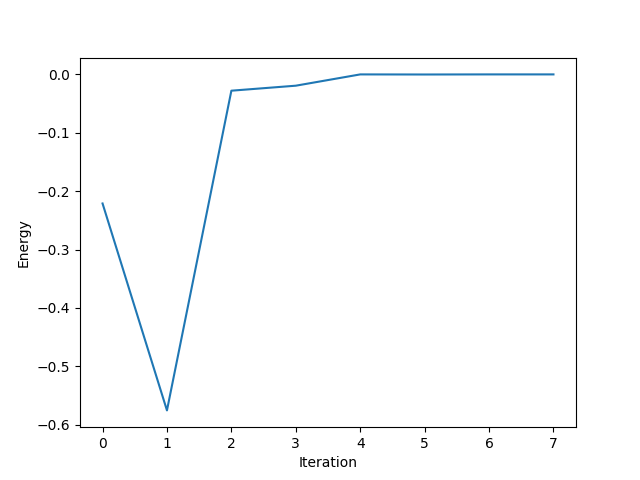
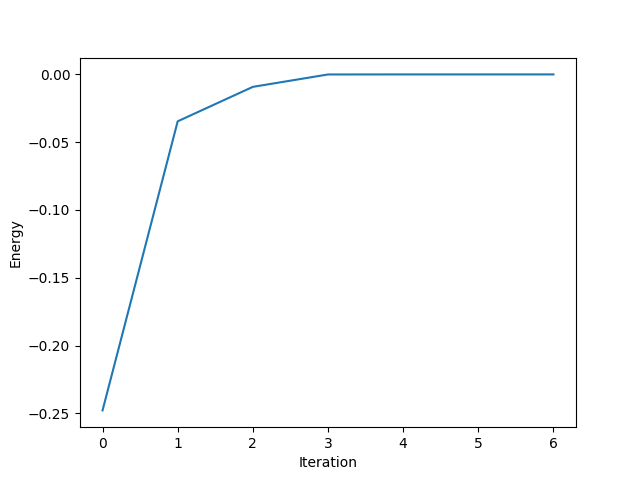
matchgate thingss

diff --git a/Ansatzes_Hamiltonians.py b/Ansatzes_Hamiltonians.py
@@ -100,6 +100,34 @@ def E3LIN2_ansatz(N, H, L = 1, array_method = False):
 
     return ansatz, ansatz_full
 
+def matchgate_hamiltonian(N, z_h = 1, zz_h = 1, xx_h = 1):
+    H = []
+    for i in range(N):
+        H.append(pauli(f"Z{i}",N,z_h))
+        if i == N-1:
+            break
+        H.append(pauli(f"Z{i}Z{i+1}",N,zz_h))
+        H.append(pauli(f"X{i}X{i+1}",N,xx_h))
+    return H
+
+def matchgate_ansatz(N, K, array_method = False):
+
+    XX_layer = [pauli(f"X{i}X{i+1}",N) for i in range(N-1)] # not yet flattened circuit
+    ZZ_layer = [pauli(f"Z{i}Z{i+1}",N) for i in range(N-1)] 
+    Z_layer = [pauli(f"Z{i}", N) for i in range(N)]
+
+    for i in range(int(K)):
+        ansatz += XX_layer
+        ansatz += Z_layer
+        ansatz += ZZ_layer
+
+    if array_method:
+        ansatz = [a.to_parray() for a in ansatz]
+    return ansatz
+
+
+
+
 
 
     

diff --git a/K_finding.py b/K_finding.py
@@ -1,7 +1,7 @@
 from K_cell_searching import *
 from tqdm import tqdm
 
-for N in [10]:
+for N in [3,4,5,6,7,8,9,10]:
     L = 4
     HVA = False
     X_H = -1
